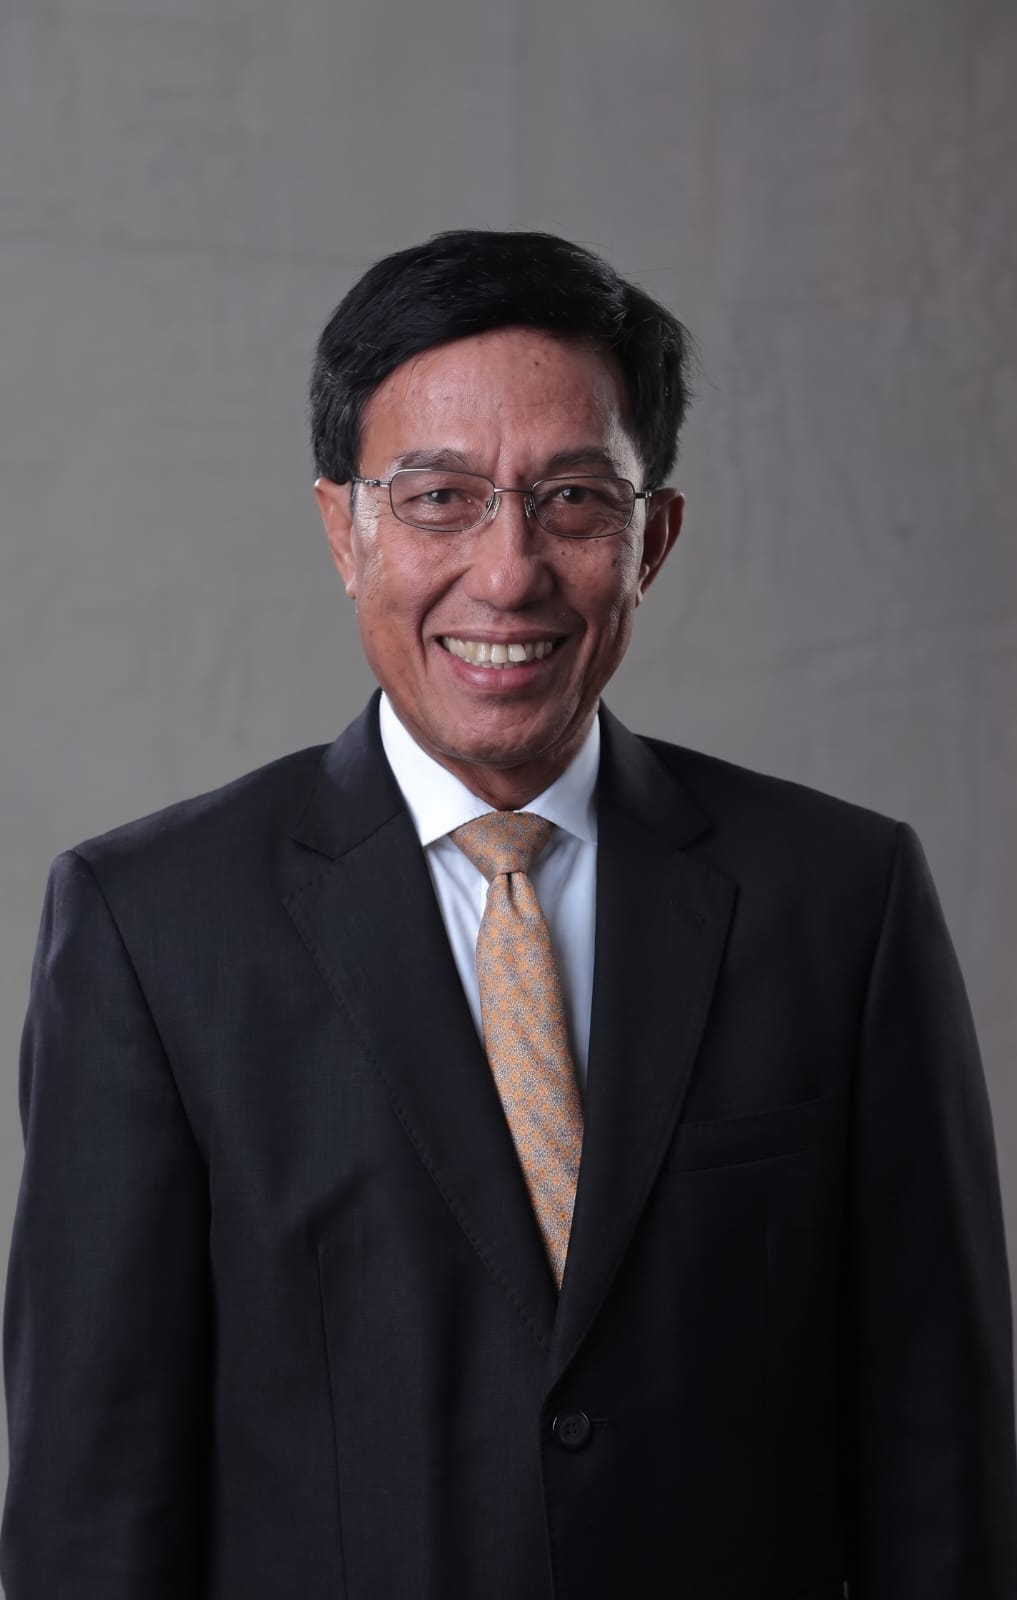
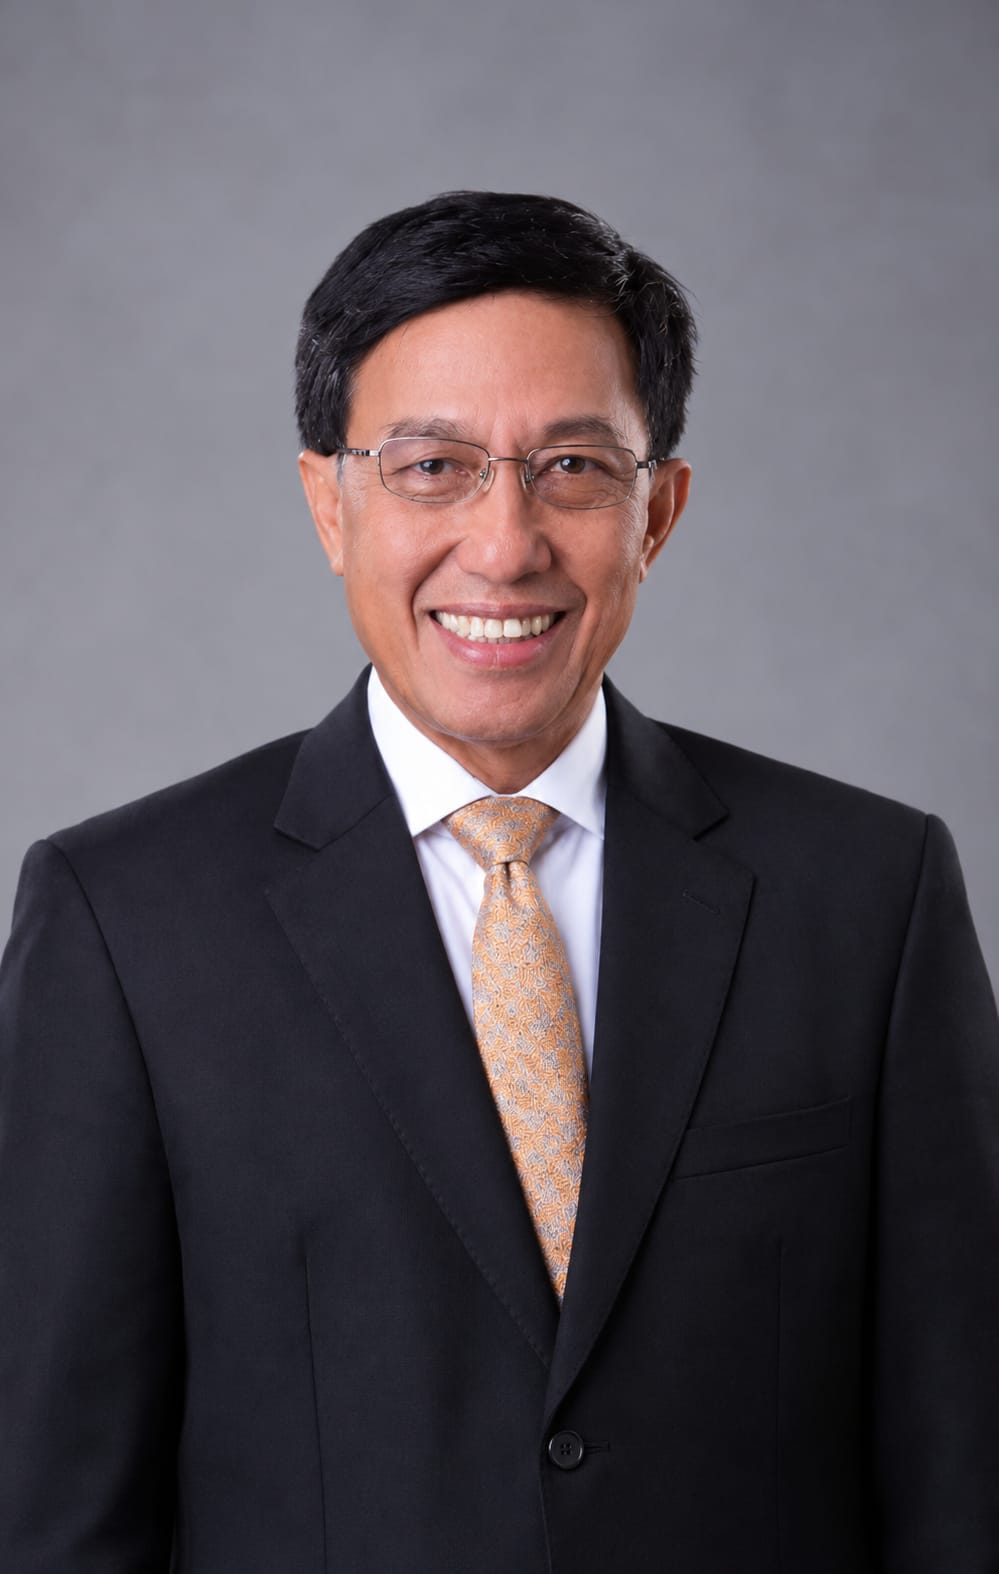
Update six

diff --git a/treatments.html b/treatments.html
@@ -28,7 +28,7 @@
       <nav class="desktop-nav" id="main-nav" aria-label="Primary navigation">
         <a href="index.html">Home</a>
         <a href="treatments.html" aria-current="page">Programs</a>
-        <a href="team.html">Our Story</a>
+        <a href="team.html">Healing Stories</a>
         <a href="contact.html">Contact</a>
         <a class="button button--primary button--small" href="booking.html">Plan your stay</a>
       </nav>
@@ -56,27 +56,27 @@
           <li class="program-card">
             <span class="program-card__number" aria-hidden="true">03</span>
             <h3>3-Day Program</h3>
-            <p class="program-dates"><span>Sample retreat</span><time datetime="2027-01-12">January 12</time>&ndash;<time datetime="2027-01-14">14, 2027</time><small>3 days to pause and begin again</small></p>
+            <p class="program-dates"><span>Sample retreat</span><time datetime="2027-01-12">January 12</time>&ndash;<time datetime="2027-01-14">14, 2027</time><small>3 days and 2 nights to pause and begin again</small></p>
           </li>
           <li class="program-card">
             <span class="program-card__number" aria-hidden="true">05</span>
             <h3>5-Day Program</h3>
-            <p class="program-dates"><span>Sample retreat</span><time datetime="2027-03-10">March 10</time>&ndash;<time datetime="2027-03-14">14, 2027</time><small>5 days to restore your rhythm</small></p>
+            <p class="program-dates"><span>Sample retreat</span><time datetime="2027-03-10">March 10</time>&ndash;<time datetime="2027-03-14">14, 2027</time><small>5 days and 4 nights to restore your rhythm</small></p>
           </li>
           <li class="program-card">
             <span class="program-card__number" aria-hidden="true">07</span>
             <h3>7-Day Program</h3>
-            <p class="program-dates"><span>Sample retreat</span><time datetime="2027-04-05">April 5</time>&ndash;<time datetime="2027-04-11">11, 2027</time><small>7 days to renew body and spirit</small></p>
+            <p class="program-dates"><span>Sample retreat</span><time datetime="2027-04-05">April 5</time>&ndash;<time datetime="2027-04-11">11, 2027</time><small>7 days and 6 nights to renew body and spirit</small></p>
           </li>
           <li class="program-card">
             <span class="program-card__number" aria-hidden="true">10</span>
             <h3>10-Day Program</h3>
-            <p class="program-dates"><span>Sample retreat</span><time datetime="2027-06-08">June 8</time>&ndash;<time datetime="2027-06-17">17, 2027</time><small>10 days to explore lasting change</small></p>
+            <p class="program-dates"><span>Sample retreat</span><time datetime="2027-06-08">June 8</time>&ndash;<time datetime="2027-06-17">17, 2027</time><small>10 days and 9 nights to explore lasting change</small></p>
           </li>
           <li class="program-card">
             <span class="program-card__number" aria-hidden="true">20</span>
             <h3>20-Day Program</h3>
-            <p class="program-dates"><span>Sample retreat</span><time datetime="2027-05-01">May 1</time>&ndash;<time datetime="2027-05-20">20, 2027</time><small>20 days for a deeper reset</small></p>
+            <p class="program-dates"><span>Sample retreat</span><time datetime="2027-05-01">May 1</time>&ndash;<time datetime="2027-05-20">20, 2027</time><small>20 days and 19 nights for a deeper reset</small></p>
           </li>
         </ul>
         <p class="program-note">Dates are illustrative examples, not confirmed availability. Day counts include both the start and end dates. Contact us for current program details.</p>
@@ -210,14 +210,14 @@
     <div class="container">
       <div class="footer-main">
         <div class="footer-brand-block">
-          <a class="footer-brand" href="index.html">The Vine <span>Sanctuary &middot; Bali</span></a>
+          <a class="footer-brand" href="index.html"><img src="images/the-vine-resort-light.png" alt="The Vine Wellness Institute" class="footer-logo" width="415" height="224"></a>
           <p>A sanctuary for healing, hope, and restoration.</p>
         </div>
         <nav class="footer-nav" aria-label="Footer navigation">
           <h2>Explore</h2>
           <a href="index.html">Home</a>
           <a href="treatments.html" aria-current="page">Programs &amp; Philosophy</a>
-          <a href="team.html">Our Story</a>
+          <a href="team.html">Healing Stories</a>
           <a href="booking.html">Plan Your Retreat</a>
           <a href="contact.html">Contact</a>
         </nav>

diff --git a/team.html b/team.html
@@ -28,7 +28,7 @@
       <nav class="desktop-nav" id="main-nav" aria-label="Primary navigation">
         <a href="index.html">Home</a>
         <a href="treatments.html">Programs</a>
-        <a href="team.html" aria-current="page">Our Story</a>
+        <a href="team.html" aria-current="page">Healing Stories</a>
         <a href="contact.html">Contact</a>
         <a class="button button--primary button--small" href="booking.html">Plan your stay</a>
       </nav>
@@ -166,14 +166,14 @@ As President Commissioner.</p>
     <div class="container">
       <div class="footer-main">
         <div class="footer-brand-block">
-          <a class="footer-brand" href="index.html">The Manca <span>Sanctuary &middot; Bali</span></a>
+          <a class="footer-brand" href="index.html"><img src="images/the-vine-resort-light.png" alt="The Vine Wellness Institute" class="footer-logo" width="415" height="224"></a>
           <p>A sanctuary for healing, hope, and restoration.</p>
         </div>
         <nav class="footer-nav" aria-label="Footer navigation">
           <h2>Explore</h2>
           <a href="index.html">Home</a>
           <a href="treatments.html">Programs &amp; Philosophy</a>
-          <a href="team.html" aria-current="page">Our Story</a>
+          <a href="team.html" aria-current="page">Healing Stories</a>
           <a href="booking.html">Plan Your Retreat</a>
           <a href="contact.html">Contact</a>
         </nav>

diff --git a/contact.html b/contact.html
@@ -28,7 +28,7 @@
       <nav class="desktop-nav" id="main-nav" aria-label="Primary navigation">
         <a href="index.html">Home</a>
         <a href="treatments.html">Programs</a>
-        <a href="team.html">Our Story</a>
+        <a href="team.html">Healing Stories</a>
         <a href="contact.html" aria-current="page">Contact</a>
         <a class="button button--primary button--small" href="booking.html">Plan your stay</a>
       </nav>
@@ -114,14 +114,14 @@
     <div class="container">
       <div class="footer-main">
         <div class="footer-brand-block">
-          <a class="footer-brand" href="index.html">The Vine <span>Sanctuary &middot; Bali</span></a>
+          <a class="footer-brand" href="index.html"><img src="images/the-vine-resort-light.png" alt="The Vine Wellness Institute" class="footer-logo" width="415" height="224"></a>
           <p>A sanctuary for healing, hope, and restoration.</p>
         </div>
         <nav class="footer-nav" aria-label="Footer navigation">
           <h2>Explore</h2>
           <a href="index.html">Home</a>
           <a href="treatments.html">Programs &amp; Philosophy</a>
-          <a href="team.html">Our Story</a>
+          <a href="team.html">Healing Stories</a>
           <a href="booking.html">Plan Your Retreat</a>
           <a href="contact.html" aria-current="page">Contact</a>
         </nav>

diff --git a/booking.html b/booking.html
@@ -28,7 +28,7 @@
       <nav class="desktop-nav" id="main-nav" aria-label="Primary navigation">
         <a href="index.html">Home</a>
         <a href="treatments.html">Programs</a>
-        <a href="team.html">Our Story</a>
+        <a href="team.html">Healing Stories</a>
         <a href="contact.html">Contact</a>
         <a class="button button--primary button--small" href="booking.html" aria-current="page">Plan your stay</a>
       </nav>
@@ -97,14 +97,14 @@
     <div class="container">
       <div class="footer-main">
         <div class="footer-brand-block">
-          <a class="footer-brand" href="index.html">The Vine <span>Sanctuary &middot; Bali</span></a>
+          <a class="footer-brand" href="index.html"><img src="images/the-vine-resort-light.png" alt="The Vine Wellness Institute" class="footer-logo" width="415" height="224"></a>
           <p>A sanctuary for healing, hope, and restoration.</p>
         </div>
         <nav class="footer-nav" aria-label="Footer navigation">
           <h2>Explore</h2>
           <a href="index.html">Home</a>
           <a href="treatments.html">Programs &amp; Philosophy</a>
-          <a href="team.html">Our Story</a>
+          <a href="team.html">Healing Stories</a>
           <a href="booking.html" aria-current="page">Plan Your Retreat</a>
           <a href="contact.html">Contact</a>
         </nav>

diff --git a/index.html b/index.html
@@ -30,7 +30,7 @@
       <nav class="desktop-nav" id="main-nav" aria-label="Primary navigation">
         <a href="index.html" aria-current="page">Home</a>
         <a href="treatments.html">Programs</a>
-        <a href="team.html">Our Story</a>
+        <a href="team.html">Healing Stories</a>
         <a href="contact.html">Contact</a>
         <a class="button button--primary button--small" href="booking.html">
           Plan your stay
@@ -267,14 +267,14 @@
     <div class="container">
       <div class="footer-main">
         <div class="footer-brand-block">
-          <a class="footer-brand" href="#home">The Vine <span>Sanctuary · Bali</span></a>
+          <a class="footer-brand" href="#home"><img src="images/the-vine-resort-light.png" alt="The Vine Wellness Institute" class="footer-logo" width="415" height="224"></a>
           <p>A sanctuary for healing, hope, and restoration.</p>
         </div>
         <nav class="footer-nav" aria-label="Footer navigation">
           <h2>Explore</h2>
           <a href="index.html" aria-current="page">Home</a>
           <a href="treatments.html">Programs &amp; Philosophy</a>
-          <a href="team.html">Our Story</a>
+          <a href="team.html">Healing Stories</a>
           <a href="booking.html">Plan Your Retreat</a>
           <a href="contact.html">Contact</a>
         </nav>

diff --git a/style.css b/style.css
@@ -1459,21 +1459,11 @@ h1 em,
 
 .footer-brand {
   display: inline-block;
-  color: var(--color-white);
-  font-family: var(--font-display);
-  font-size: 2rem;
-  line-height: 1.15;
 }
 
-.footer-brand span {
-  display: block;
-  margin-top: 6px;
-  color: #c5ddca;
-  font-family: var(--font-body);
-  font-size: 0.63rem;
-  font-weight: 600;
-  letter-spacing: 0.16em;
-  text-transform: uppercase;
+.footer-logo {
+  width: min(100%, 190px);
+  height: auto;
 }
 
 .footer-brand-block > p {
@@ -1911,10 +1901,6 @@ h1 em,
 
   .footer-main {
     gap: 28px 18px;
-  }
-
-  .footer-brand {
-    font-size: 1.75rem;
   }
 
   .footer-bottom {

diff --git a/404.html b/404.html
@@ -49,7 +49,7 @@
     <div class="container">
       <div class="footer-main">
         <div class="footer-brand-block">
-          <a class="footer-brand" href="index.html">The Vine <span>Sanctuary &middot; Bali</span></a>
+          <a class="footer-brand" href="index.html"><img src="images/the-vine-resort-light.png" alt="The Vine Wellness Institute" class="footer-logo" width="415" height="224"></a>
           <p>A sanctuary for healing, hope, and restoration.</p>
         </div>
         <nav class="footer-nav" aria-label="Footer navigation">
